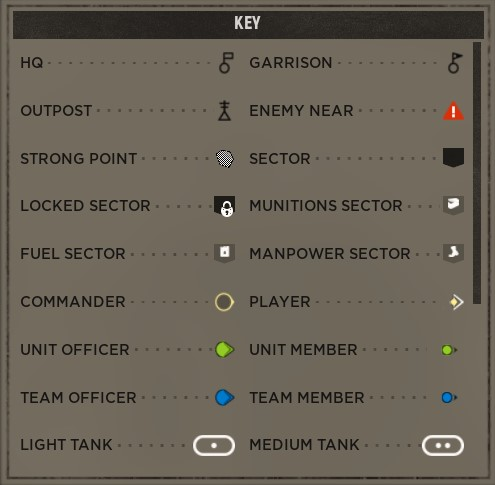
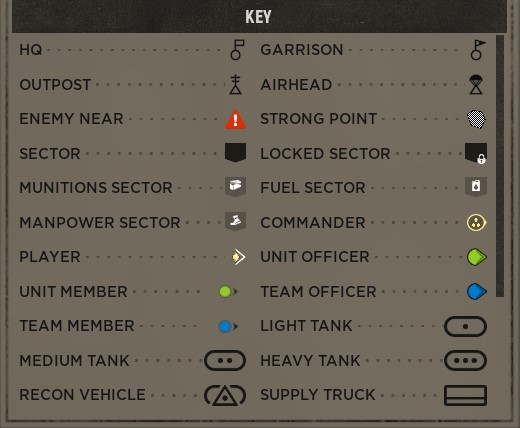
Update dependencies, HLL map images/masks, and README
As suggested in issue #11

diff --git a/README.md b/README.md
@@ -18,7 +18,7 @@ The `hll` folder contains images which are always displayed when the HLL map is 
 3. Install a terminal app if you don't already have one e.g. [Git Bash](https://gitforwindows.org/)
 4. Open up your terminal
 5. Navigate to where you extracted this repository (e.g. `cd Downloads/obs-screen-recognition`)
-4. Install the dependencies using pip in your terminal: `pip install -r requirements.txt`
+4. Install the dependencies using pip in your terminal: `python -m pip install -r requirements.txt`
 5. Install the [obs-websocket plugin](https://obsproject.com/forum/resources/obs-websocket-remote-control-obs-studio-from-websockets.466/) for OBS (Windows Installer works fine)
 6. Start (or restart) OBS (Note that Streamlabs OBS will not work)
 6. Configure the settings in `settings.json`:
